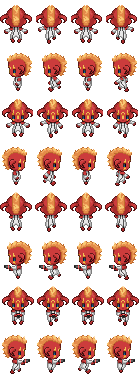
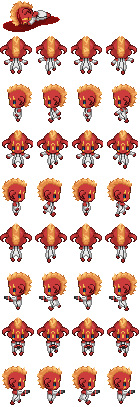
[ADD] Death animations?

diff --git a/opengltest/Enemy.cpp b/opengltest/Enemy.cpp
@@ -51,8 +51,7 @@ Enemy::Enemy(ProjectileManager* projMan, EntityManager* entityMan, SpriteSheetIn
 		texture->addSpriteAnimRow(1, 0, 236, w + 1, 0, 4);
 		texture->addSpriteAnimRow(2, 0, 283, w + 1, 0, 4);
 		texture->addSpriteAnimRow(3, 0, 330, w + 1, 0, 4);
-
-		texture->addSpriteAnimRow(8, 0, 189, w + 1, 47, 4);
+		texture->addSpriteAnimFrame(8, 0, 376);
 	}
 	else if (entityType == ELITE)
 	{
@@ -71,8 +70,7 @@ Enemy::Enemy(ProjectileManager* projMan, EntityManager* entityMan, SpriteSheetIn
 		texture->addSpriteAnimRow(1, 0, 236, w + 1, 0, 4);
 		texture->addSpriteAnimRow(2, 0, 283, w + 1, 0, 4);
 		texture->addSpriteAnimRow(3, 0, 330, w + 1, 0, 4);
-
-		texture->addSpriteAnimRow(8, 0, 189, w + 1, 47, 4);
+		texture->addSpriteAnimFrame(8, 0, 376);
 	}
 	else if (entityType == NEUTRAL1)
 	{
@@ -252,8 +250,6 @@ void Enemy::update(float dTime)
 			}
 			Dialog::instance()->Say(et, 0);
 		}
-		EntityManager::instance()->DeleteEntity(index);
-		return;
 	}
 
 	stateCD -= dTime;
@@ -278,11 +274,6 @@ void Enemy::update(float dTime)
 	else if (direction.y < direction.x && direction.y < 0.f)
 		curAnim = 1;
 
-	if (state == state_attack)
-		texture->setCurrentAnimation(curAnim + 4);
-	else
-		texture->setCurrentAnimation(curAnim);
-
 	if (animFrame >= 1.f)
 	{
 		texture->nextFrame();
@@ -303,6 +294,26 @@ void Enemy::update(float dTime)
 		}
 	}
 
+	if (hp <= 0)
+	{
+		texture->setCurrentAnimation(8);
+		w = 52;
+		h = 30;
+		deathAnim -= dTime;
+		texture->setSpriteFrameSize(w, h);
+		state = state_dead;
+		if (hasItem)
+		{
+			DropItems();
+			hasItem = false;
+		}
+		return;
+	}
+
+	if (state == state_attack)
+		texture->setCurrentAnimation(curAnim + 4);
+	else
+		texture->setCurrentAnimation(curAnim);
 	texture->setPosition(x,y);
 
 	hpBar->setPosition(x + 0.5f, y + h + 0.5f);
@@ -377,6 +388,8 @@ void Enemy::updateAiState()
 			break;
 		case state_chase:
 			Chase();
+			break;
+		case state_dead:
 			break;
 		}
 	}
@@ -551,4 +564,9 @@ void Enemy::bcastRecv(bcast broadcast)
 void Enemy::bcastSend(char msg, int sender)
 {
 	entityManager->bcastRecv(msg, sender);
+}
+
+void Enemy::DropItems()
+{
+	EntityManager::instance()->DropItems(manIndex);
 }

diff --git a/opengltest/EntityManager.cpp b/opengltest/EntityManager.cpp
@@ -50,7 +50,7 @@ void EntityManager::CreateEntity(entitytype entityType, float x, float y)
 	}
 }
 
-void EntityManager::DeleteEntity(int index)
+void EntityManager::DropItems(int index)
 {
 	entitytype t = entityVector[index]->GetType();
 	float val = (float)rand() / RAND_MAX;
@@ -73,7 +73,7 @@ void EntityManager::DeleteEntity(int index)
 		{
 			di->itemId = 0;
 			di->qual = 1;
-		}	
+		}
 	}
 	else if (t == ELITE)
 	{
@@ -100,12 +100,17 @@ void EntityManager::DeleteEntity(int index)
 		droppedItems.push_back(di);
 	}
 
+	score += 100;
+
+}
+
+void EntityManager::DeleteEntity(int index)
+{
 	free(entityVector[index]);
 	entityVector.erase(entityVector.begin() + index);
 	entityVector.shrink_to_fit();
 	for (int i = entityVector.size() - 1; i > 0; i--)
 		entityVector.at(i)->UpdateIndex(i);
-	score += 100;
 }
 
 void EntityManager::Clear()

diff --git a/opengltest/ColisionManager.cpp b/opengltest/ColisionManager.cpp
@@ -56,6 +56,9 @@ void ColisionManager::RebuildColisionMap()
 
 void ColisionManager::Update()
 {
+	if (mapNum == 0 && EntityManager::instance()->getHP(0) < EntityManager::instance()->getMaxHP(0))
+		EntityManager::instance()->entityVector[0]->ModHP(1);
+
 	projectileVectorPtr = projectileManager->GetProjectileVector();//rederive location incase pushback caused it to move
 	RECT entPos;
 	for (int entityIter = 0, numOfEnts = entityManager->GetSize(); entityIter < numOfEnts; entityIter++)
@@ -231,6 +234,7 @@ void ColisionManager::UpdateChunk(int chunkNum, int entityIter)
 							//Now we get to load the map
 							int mapID = portalMap.at(portalIter).mapTransitionID;
 							mapLoader->LoadMap(mapID);
+							mapNum = mapID;
 							RebuildColisionMap();
 							EntityManager::instance()->Update(0);
 							return;

diff --git a/opengltest/Enemy.h b/opengltest/Enemy.h
@@ -29,6 +29,7 @@ class Enemy : public Entity
 public:
 	Enemy(ProjectileManager* projMan, EntityManager* entityMan, SpriteSheetInfo bar, float x, float y, int index, entitytype entType, int managerIndex);
 	void draw();
+	void DropItems();
 	void update(float dTime); // will need to do ai stuff
 	void ModPos(vec2 mod);
 	int GetIndex() { return index; }
@@ -60,6 +61,7 @@ protected:
 	ai_state state;
 	float stateCD, cooldown;
 	bool stateBool;
+	bool hasItem = true;
 };
 
 #endif

diff --git a/opengltest/EntityManager.h b/opengltest/EntityManager.h
@@ -26,6 +26,7 @@ public:
 	}
 	void CreateEntity(entitytype entityType, float x, float y);
 	void DeleteEntity(int entityID);
+	void DropItems(int index);
 	void Update(float dTime);
 	void HandleInput(char key, bool press);
 	void DrawAll(float x, float y);

diff --git a/opengltest/ColisionManager.h b/opengltest/ColisionManager.h
@@ -39,6 +39,7 @@ private:
 	MapLoader* mapLoader;
 	
 	int chunkW, mapW;
+	int mapNum;
 	std::vector<std::vector<Tile*>>* chunkVectorPtr;
 	std::vector<Projectile*>* projectileVectorPtr;
 	std::vector<std::vector<RECT>> colisionMap;
